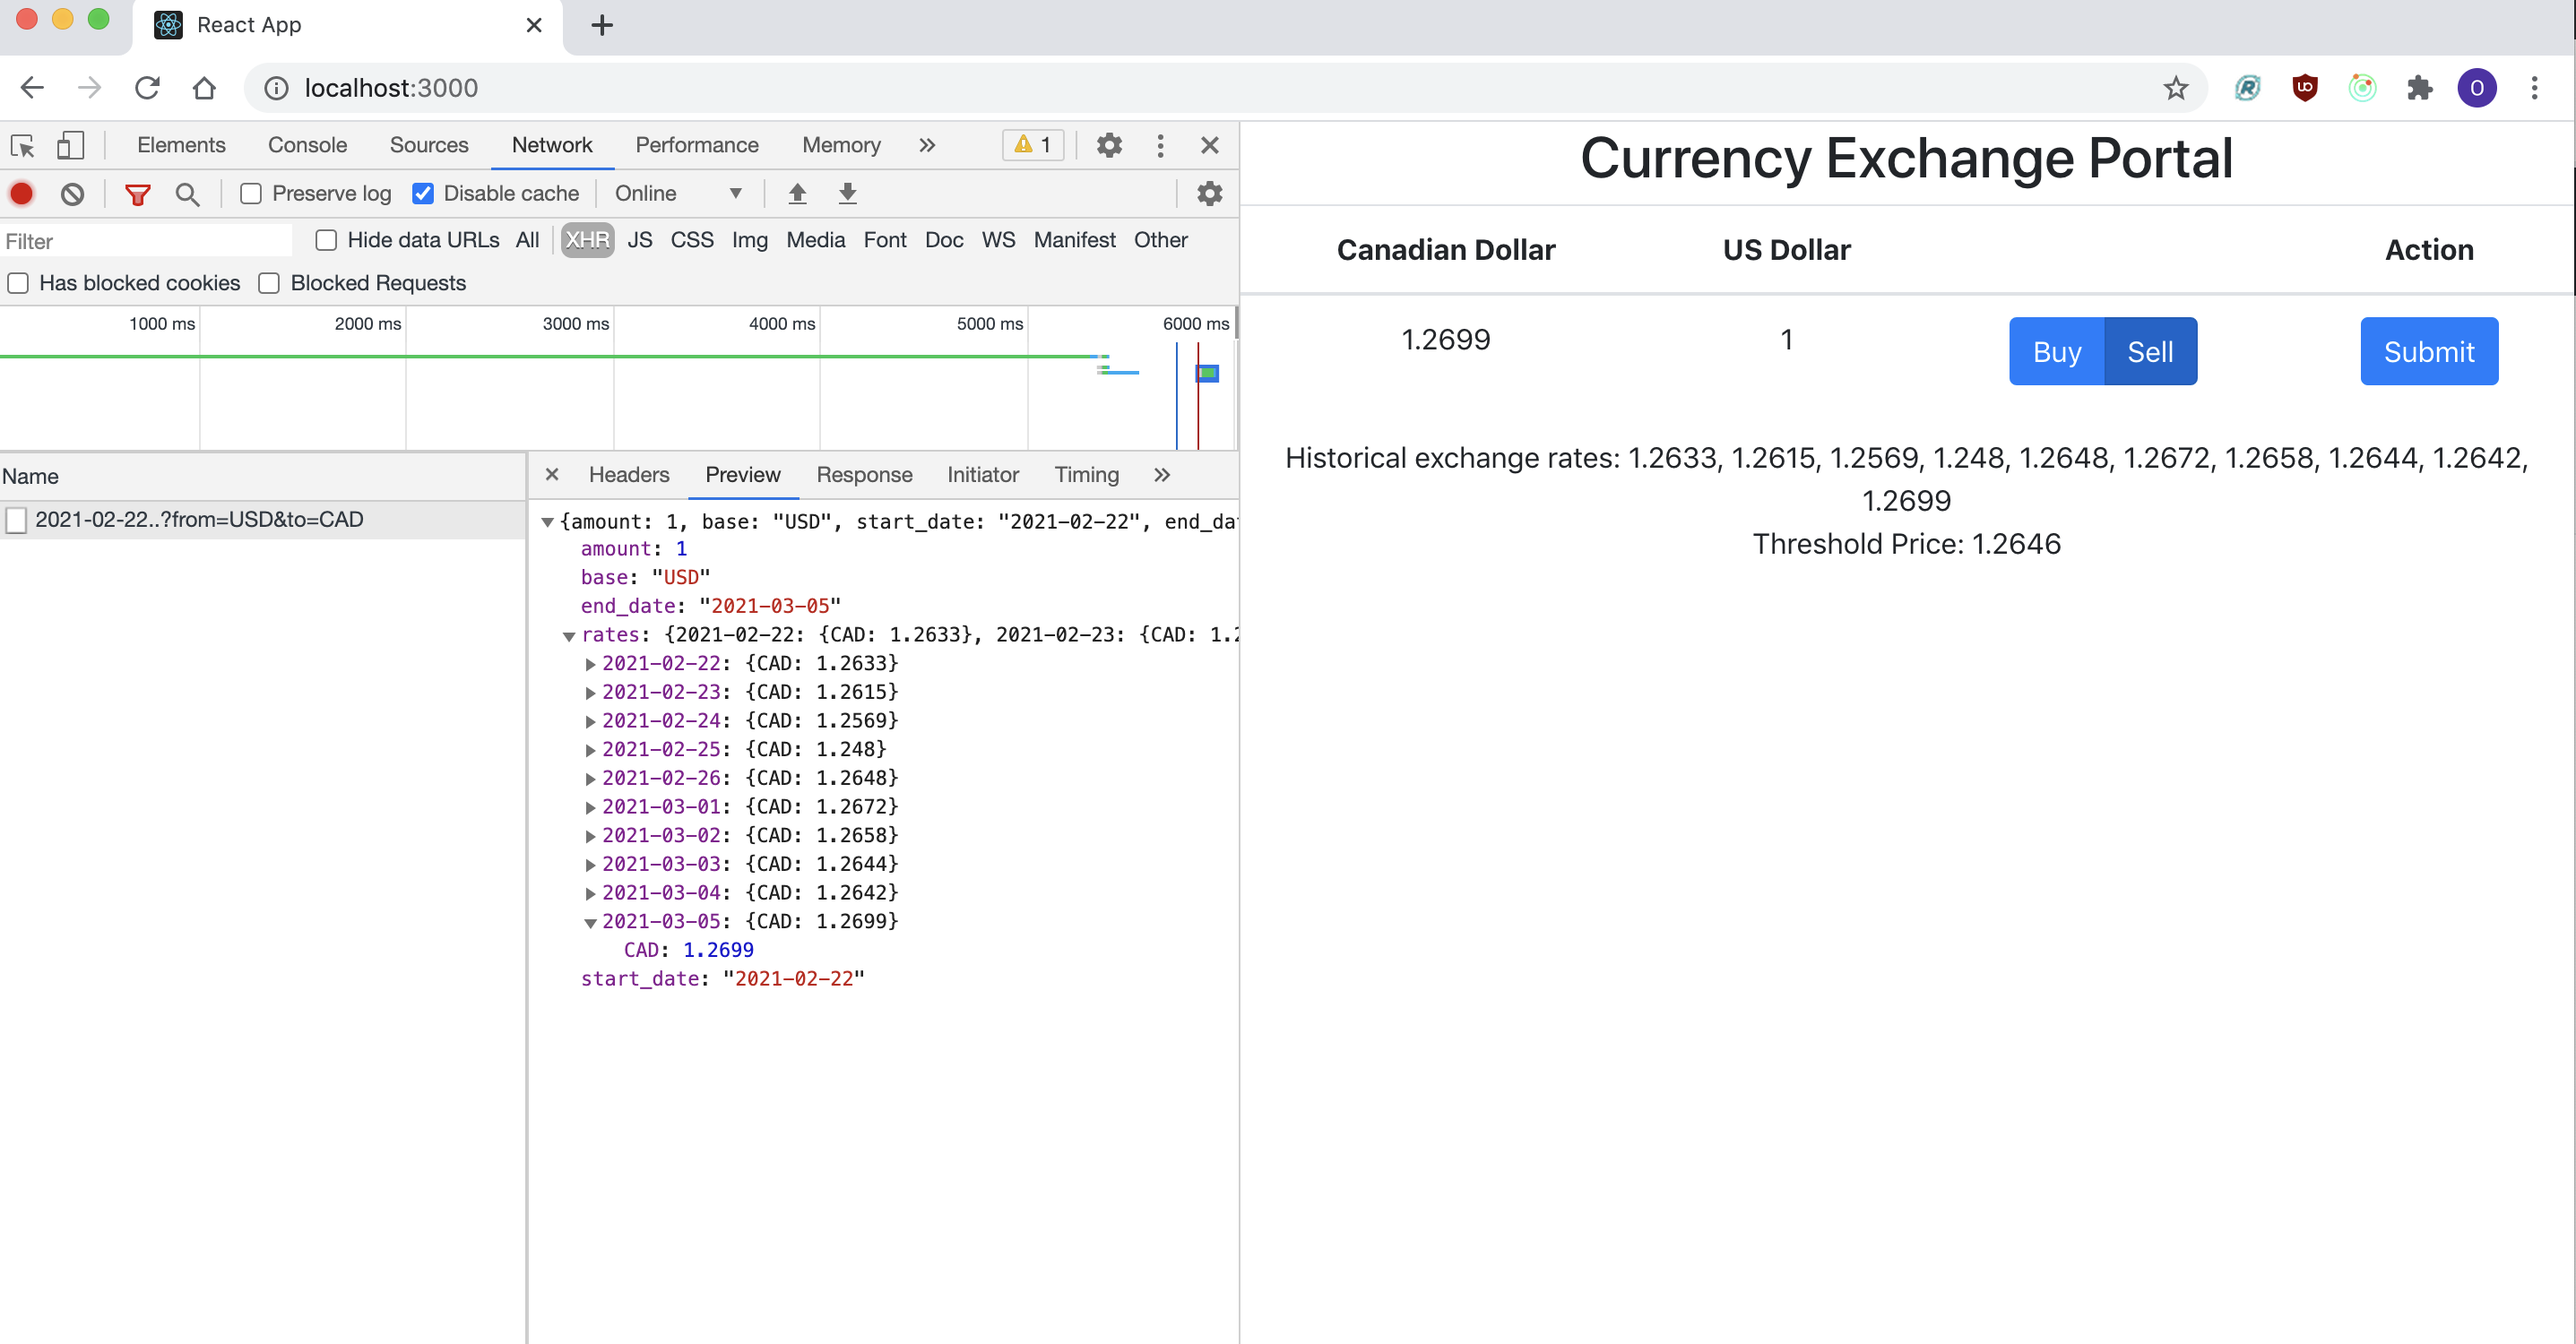
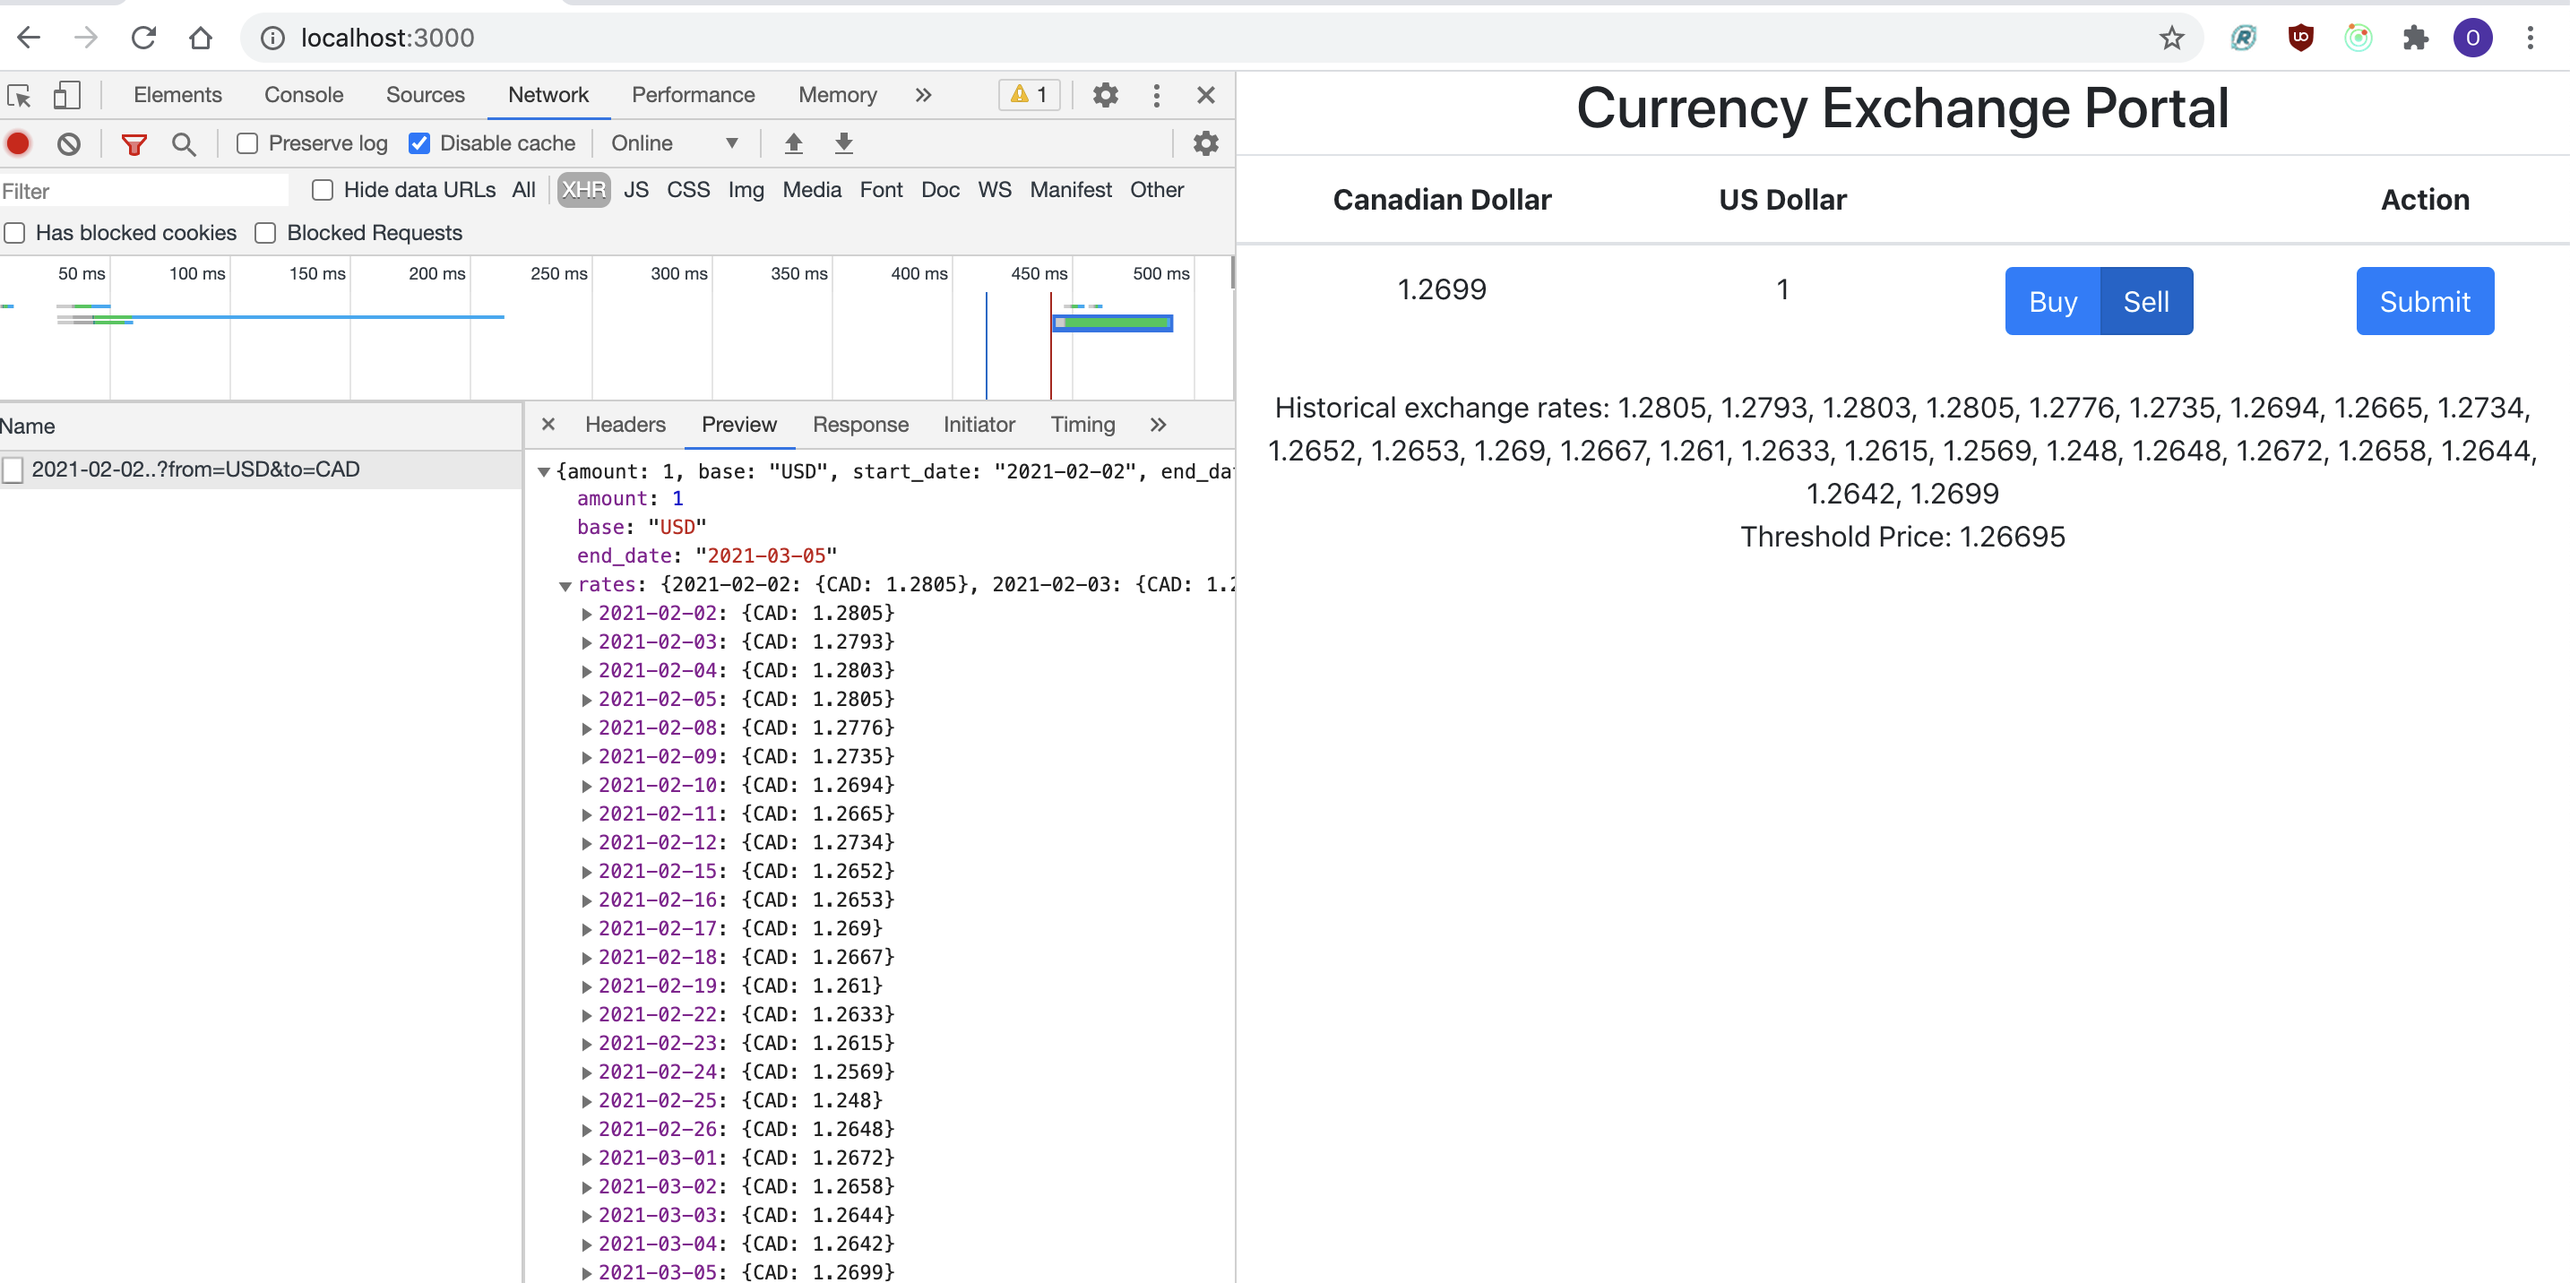
fix: change days to 30

diff --git a/src/App.tsx b/src/App.tsx
@@ -10,7 +10,7 @@ import { Table } from 'react-bootstrap';
 import { ButtonGroup, ToggleButton, Button} from 'react-bootstrap';
 
 function App() {
-  const fetchDays = 10;
+  const fetchDays = 30;
   const dispatch = useDispatch();
 
   const startDate = getStartDate(fetchDays);
@@ -26,7 +26,7 @@ function App() {
   const exState = useSelector((state: AppRootState) => state.exchangeRate);
   const isLoaded = !exState.loading && exState.data;
   let rateArray = isLoaded ? extractRateArray( exState.data! , CURRENCIES.CAD) : [];
-  rateArray = rateArray.slice(0, 10);
+  rateArray = rateArray.slice(0, fetchDays);
   const median = isLoaded ? getMedian(rateArray) : 0;
   const flag = isLoaded ? getBuySellFlag(rateArray, median) : 0;
 

diff --git a/README.md b/README.md
@@ -13,7 +13,8 @@ Visit [https://www.frankfurter.app/docs/](https://www.frankfurter.app/docs/) for
 - specified version 1.0.0 in compose file, latest doesn't work.
 
 ### app screenshot
-![screenshot](screenshot-001.png)
+
+![rootfolder/screenshot-001.png](screenshot-001.png)
 ## Available Scripts
 
 In the project directory, you can run:
